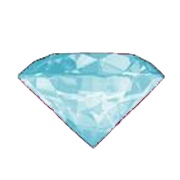
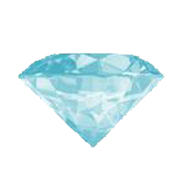
Displayed the first image of the array for each gem, couldn't get the thumbnail images to show

diff --git a/js/app.js b/js/app.js
@@ -10,37 +10,67 @@ var gems = [
 		name: "1 Garnet Gem",
 		price:2.95,
 		description: "Information about the Garnet Gem goes here...",
+		images: [
+			"img/1.png",
+			"img/1.png",
+			"img/1.png"
+		],
 		canPurchase: true
 	},
 	{
 		name: "2 Amethyst Gem",
 		price:5.95,
 		description: "Information about the Amethyst Gem goes here...",
+		images: [
+			"img/2.png",
+			"img/2.png",
+			"img/2.png"
+		],
 		canPurchase: true
 	},
 	{ 
 		name: "3 Aquamarine Gem", 
 		price: 2.95,
 		description: "Information about the Aquamarine Gem goes here...",
-		canPurchase: true,
+		images: [
+			"img/3.png",
+			"img/3.png",
+			"img/3.png"
+		],
+		canPurchase: true
 	},
-    { 
+   { 
     	name: "4 Diamond Gem", 
 	    price: 5.95,
 	    description: "Information about the Diamond Gem goes here...",
-		canPurchase: true,
+	    images: [
+			"img/4.png",
+			"img/4.png",
+			"img/4.png"
+		],
+		canPurchase: true
 	},
     { 
     	name: "5 Emerald Gem", 
 	    price: 3.95,
 	    description: "Information about the Emerald Gem goes here...",
-		canPurchase: true,
+	    images: [
+			"img/5.png",
+			"img/5.png",
+			"img/5.png"
+		],
+		canPurchase: true
 	},
 	 { 
     	name: "6 Pearl Gem", 
 	    price: 5.95,
 	    description: "Information about the Pearl Gem goes here...",
-		canPurchase: true,
+	   images: [
+			"img/6.png",
+			"img/6.png",
+			"img/6.png"
+		],
+		canPurchase: true
 	}
 ];
 })();

diff --git a/index.html b/index.html
@@ -6,13 +6,26 @@
 	<script type="text/javascript" src="js/app.js"></script>
 </head>
 <body ng-controller="StoreController as store">
-	<li class="list-group-item" ng-repeat="product in store.products">
-		<h3>
-			{{product.name}}
-			<em class="pull-right">{{product.price | currency}}</em>
-		</h3>
-		<button class="pull-right" ng-show="product.canPurchase">Add to Cart</button>
-		<p>{{product.description}}</p>
-	</li>
+	<!--  Product Container  -->
+	<div class="list-group-item" ng-repeat="product in store.products">
+		<h3> {{product.name}} <em class="pull-right">{{product.price | currency}}</em></h3>
+		
+		<!-- Image Gallery  -->
+		<div class="gallery">
+			<div class="img-wrap">
+				<img ng-src="{{product.images[0]}}"/>
+			</div>
+		</div>
+	<!--
+		<ul class="img-thumbnails clearfix">
+			<li class="small-image pull-left thumbnail" ng-repeat="image in product.images">
+				<img ng-src="{{image}}"/>
+			</li>
+		</ul>
+	-->
+
+	<button class="pull-right" ng-show="product.canPurchase">Add to Cart</button>
+	<p>{{product.description}}</p>
+</div>
 </body>
 </html>
